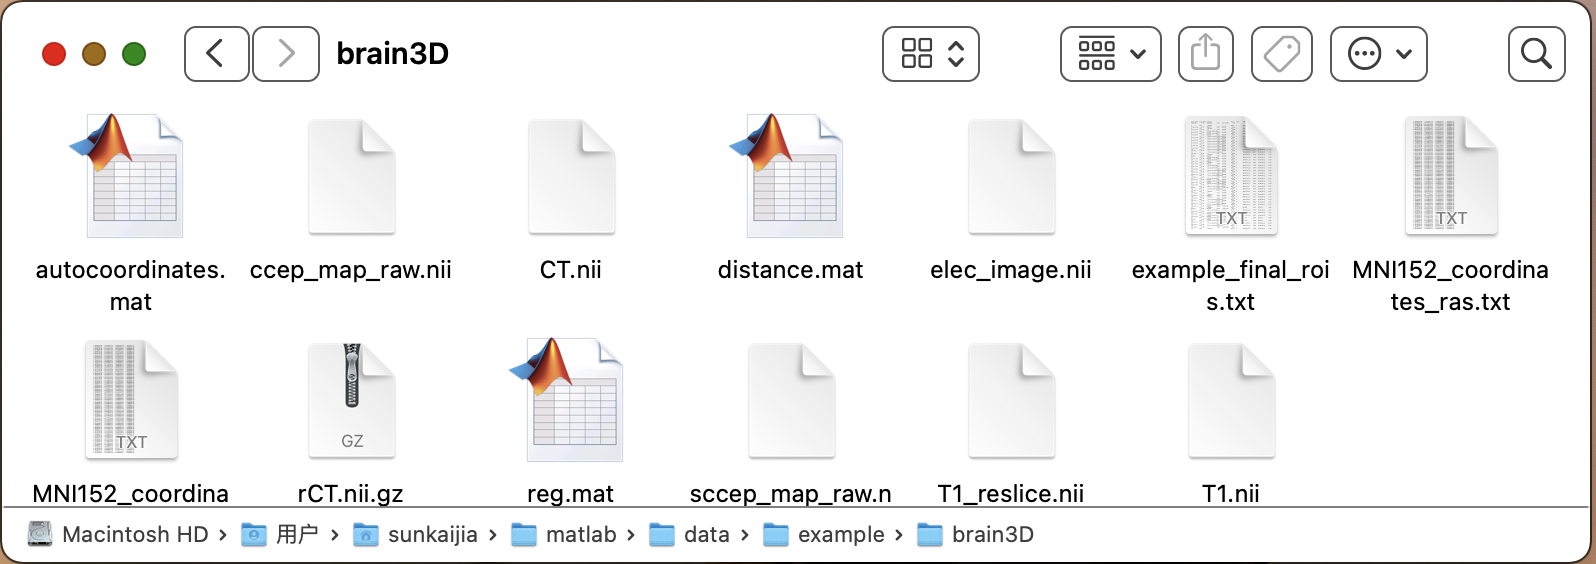
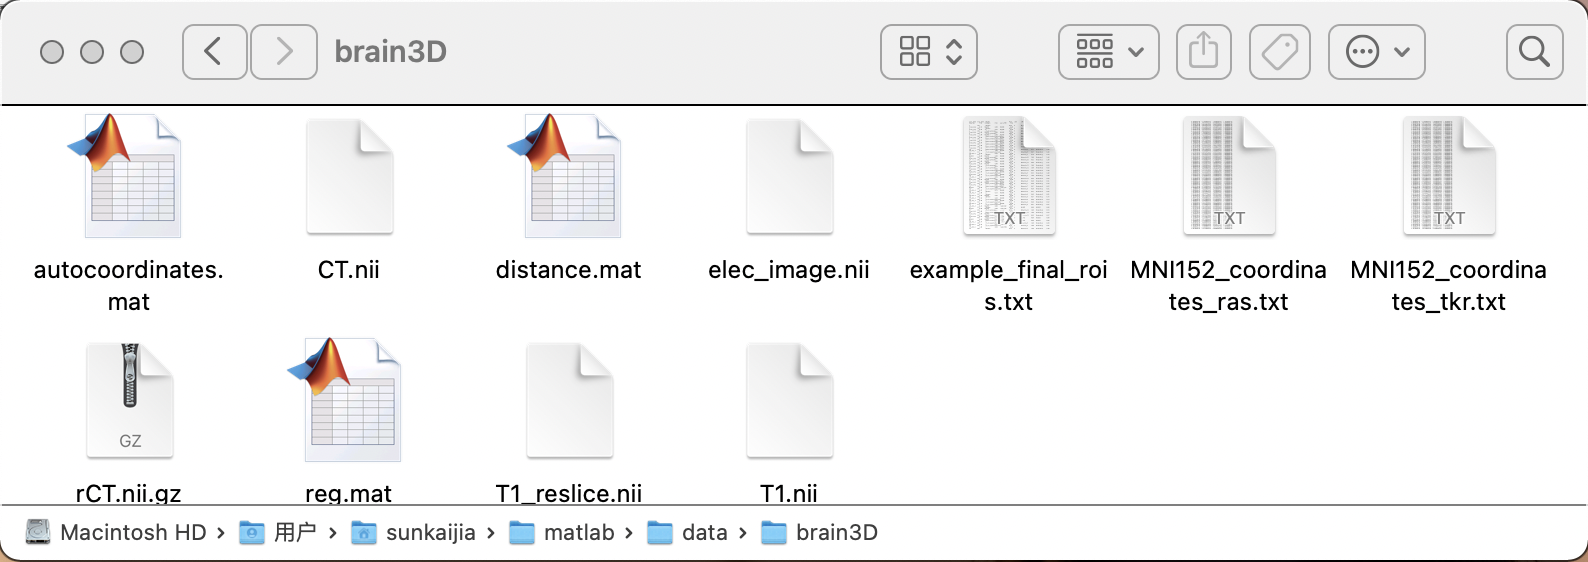
picture

diff --git a/MRIES/GUI/MRIES.m b/MRIES/GUI/MRIES.m
@@ -126,7 +126,7 @@ prompt = {'Number of Contact per electrde: eg. [16 14 10 16 14 12 10]',...
     'Number of stimulation pulse: eg. [50]'...
     'Sampling rate (Hz):   eg. 2000 '...
     'Stimulation interval (ms):  eg.1'};
-dlg_title = 'Electrode Information';
+dlg_title = 'Electrode & Stimulation';
 num_lines = 1;
 default_answer = { num2str(chan_array), cell2mat(chan_label),'[]','50','2000','1'};
 answer = inputdlg(prompt, dlg_title, num_lines, default_answer);

diff --git a/tutorial/MRIES_tutorial.md b/tutorial/MRIES_tutorial.md
@@ -33,12 +33,59 @@ Below we will take the example data to introduce these four parts in detail.
 Electrical stimulation-response data(*.edf* format) and *edf_match.txt* file should be stored in *edf* folder. 
 <div align=center><img src="https://github.com/SunKaijia0065/MRIES/blob/main/tutorial/image/edf.png"  height="200" /></div>
 
-The electrode and channel information matched to *.edf* file should typed in the *edf_match.txt* file. Every line corresponds to a *.edf* file. The fist row is the filename of *.edf* file. The second row is the stimulated electrode number of this file. The third row is the channel number corresponding to the electrode. For example, the "stimulation.edf" file contains response by channel 1-3 of electrode 7 and channel 2-6 of electrode 8. This line should be " stimulation [7,9] [1:3,2:6]". The picture below is the *edf_match.txt* file of example data. 
+The electrode and channel information matched to *.edf* file should typed in the *edf_match.txt* file. Every line corresponds to a *.edf* file. The fist row is the filename of *.edf* file. The second row is the stimulated electrode number of this file. The third row is the channel number corresponding to the electrode. 
+
+For example, the "stimulation.edf" file contains response by channel 1-3 of electrode 7 and channel 2-6 of electrode 9. This line should be " stimulation [7,9] [1:3,2:6]". The picture below is the *edf_match.txt* file of example data. 
 <div align=center><img src="https://github.com/SunKaijia0065/MRIES/blob/main/tutorial/image/edf_match.png"  height="100" /></div>
 
 #### 2) Reconstruction result
 
-#### 3) Subject infomation file
+The *label*，*mri*，*touch* and *surf* folders are reconstruction files by Freesurfer, and will be used in different visualization methods. Only copying these folders to the subject folder is OK.
 
+#### 3) Subject infomation file
+The *subjectinfo.txt* file should contain patient and electrode information. It should be the specfic format as the example data below.
+<div align=center><img src="https://github.com/SunKaijia0065/MRIES/blob/main/tutorial/image/subjectinfo.png"  height="150" /></div>
+
+- name: name of subject
+- age : age of subject
+- sex : sex of subject, female or male
+- hemisphere : electrode implanted hemisphere, rh(right), lh(left) or bh(both).
+- numelec: number of electrode.
+- chan_array: channel number of every electrode.
+- chan_name: label of every electrode.
 #### 4) Intracranial electrodes location file
+
+The *brain3D* folder is generated through the FIELD(引用). The file structure is shown below.
+
+
+<div align=center><img src="https://github.com/SunKaijia0065/MRIES/blob/main/tutorial/image/brain3D.png"  height="200" /></div>
+
+User can also use other electorde reconstruction toolboxs to obtain the location of electrode contacts and generate the *autocoordinate.mat* file without the FIELD by matlab. The structure of *autocoordinate.mat* is shown as below.
+
+
+<div align=center><img src="https://github.com/SunKaijia0065/MRIES/blob/main/tutorial/image/autocoor.png"  height="200" /></div>
+
+The *autocoordinate.mat* contain a matrix called *savecoor*. Every line of *savecoor* corresponds a contact. The first row is the number of contact. The secend row contain the electrode and contact information. eg. '107' means the 7th contact of first electrode, '1013' means the 13rd contact of 10th electrode. The 3rd-5th row is the *tkr* coordination of contact.
+
+
+
+## 3.Processing pipline
+After organizing data input, user can open the 'MRIES' main GUI to run the processing pipline. The processing pipline can be run by GUI button. Two mainly steps in this process,(1) subject and paramater setting and (2)  data processing.
+
+<div align=center><img src="https://github.com/SunKaijia0065/MRIES/blob/main/tutorial/image/mainGUI.png"  height="450" /></div>
+
+#### (1).Subject and paramater setting
+
+Press the ‘Subject Information’ button, and subject's path eslection window will be shown. 
+
+<div align=center><img src="https://github.com/SunKaijia0065/MRIES/blob/main/tutorial/image/subpath.png"  height="300" /></div>
+
+Choose the subject folder ,then the ‘Electrode & Stimulation’ window will be shown. 
+
+<div align=center><img src="https://github.com/SunKaijia0065/MRIES/blob/main/tutorial/image/elec_sti.png"  height="300" /></div>
+
+The electrode label and channel number will be loaded. The stimulation setting should typed in this window, eg, number of stimulation pluse, bad contact, sampling rate and stimulation interval.
+
+
+
 
